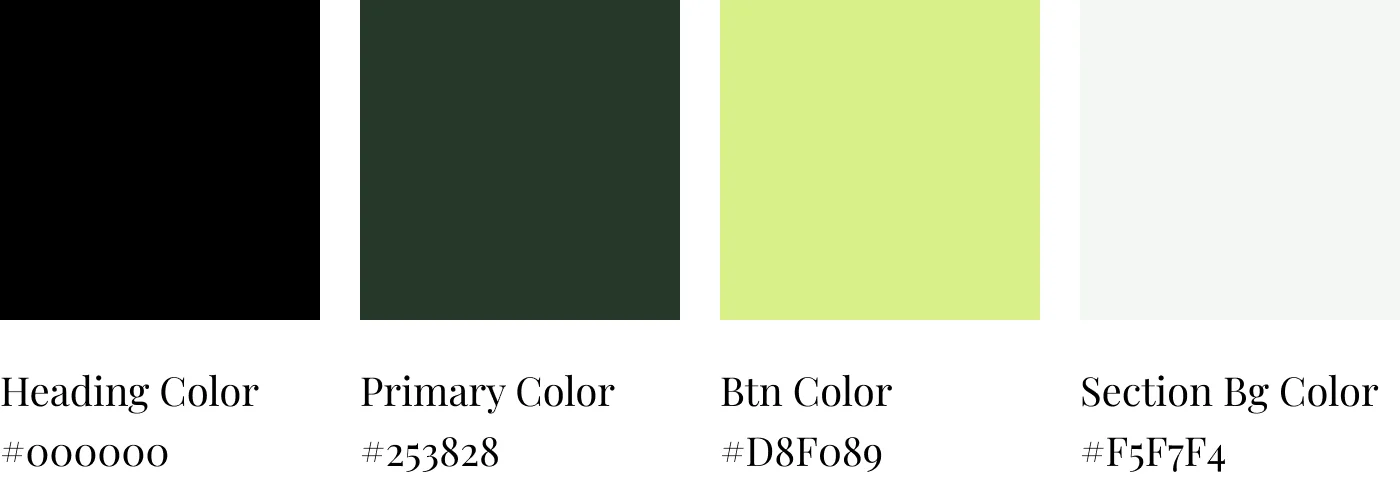
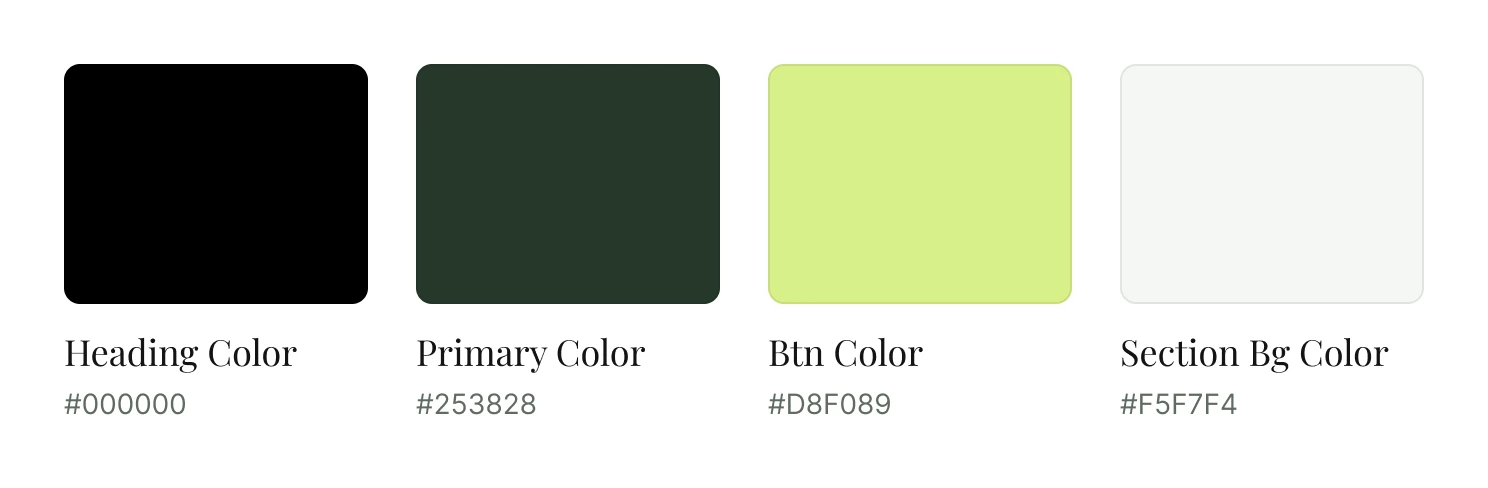
Slide phone screens sideways on narrow screens, and pad Serenity's colour palette
Below the 760px layout a row of phone screens stacked down the page. It now scrolls sideways edge to edge, snaps per phone and shows the next one at the edge. Serenity's palette picture is redrawn with 32px padding, 24px gaps and a hairline round the light swatch (744x244), since Figma's own frame ran flush to the window.

diff --git a/option-a-desktop/style.css b/option-a-desktop/style.css
@@ -1020,7 +1020,12 @@ html.boot-out:not(.boot-in) :is(.desk-icons, #windows, .taskbar) { visibility: h
 @container (max-width: 639px) {
   .cs-row { gap: 12px; }
   .cs-row > .cs-pic { flex: 1 1 100%; }
-  .cs-row.phones > .cs-pic { flex: 0 0 calc(50% - 6px); }
+}
+/* below the wide layout a row of phone screens slides sideways instead of stacking down the page: it runs edge to
+   edge, each phone snaps to the gutter and the next one peeks in. The bottom padding keeps the windows' shadow */
+@container (max-width: 759px) {
+  .cs-row.phones { flex-wrap: nowrap; justify-content: flex-start; gap: 12px; overflow-x: auto; overscroll-behavior-x: contain; scroll-snap-type: x mandatory; scroll-padding-inline: var(--g); margin-inline: calc(-1 * var(--g)); margin-bottom: -24px; padding: 0 var(--g) 24px; scrollbar-width: thin; }
+  .cs-row.phones > .cs-pic { flex: 0 0 min(72%, 240px); max-width: none; scroll-snap-align: start; }
 }
 @container (min-width: 640px) {
   .cs-title { font-size: 32px; }
@@ -1755,9 +1760,11 @@ html.boot-out:not(.boot-in) :is(.desk-icons, #windows, .taskbar) { visibility: h
   background: #f0f4ec;
   border-top: 1px solid #d6dfd2;
 }
-.screen-view[data-case="serenity-spa"] .cs-ch[data-sec="mobile"] .cs-row.phones {
-  justify-content: center;
-  gap: clamp(12px, 3vw, 32px);
+@container (min-width: 760px) {
+  .screen-view[data-case="serenity-spa"] .cs-ch[data-sec="mobile"] .cs-row.phones {
+    justify-content: center;
+    gap: clamp(12px, 3vw, 32px);
+  }
 }
 .screen-view[data-case="serenity-spa"] .cs-ch[data-sec="outcome"] {
   border-top: 8px solid #d8f089;

diff --git a/option-a-desktop/index.html b/option-a-desktop/index.html
@@ -28,7 +28,7 @@
   <link rel="preload" as="font" type="font/woff2" href="../asset/fonts/noto-sans-latin.woff2?v=1" crossorigin>
   <link rel="preload" as="font" type="font/woff2" href="../asset/fonts/noto-sans-mono-latin.woff2?v=1" crossorigin>
   <link rel="stylesheet" href="../asset/fonts/fonts.css?v=1">
-  <link rel="stylesheet" href="style.css?v=157">
+  <link rel="stylesheet" href="style.css?v=158">
   <!-- the loading screen's still, fetched with the stylesheets: the room shows from the first frames -->
   <link rel="preload" as="image" href="../asset/boot/room.webp?v=1" media="(min-width: 721px)" fetchpriority="high">
   <link rel="preload" as="image" href="../asset/boot/room-phone.webp?v=1" media="(max-width: 720px), (max-height: 500px) and (pointer: coarse)" fetchpriority="high">
@@ -141,7 +141,7 @@
   <!-- the loading screen first, so it can count everything after it -->
   <script src="boot.js?v=11"></script>
   <script src="../shared/content.js?v=107"></script>
-  <script src="../shared/cases.js?v=21"></script>
+  <script src="../shared/cases.js?v=22"></script>
   <script src="icons.js?v=57"></script>
   <script src="app.js?v=188"></script>
   <!-- live wallpaper and the episode TV's desk (three.js); the static webp on .desktop and the episode stills stay as

diff --git a/shared/cases.js b/shared/cases.js
@@ -788,7 +788,7 @@
                 en: 'The style guide’s headings in Playfair Display, from Heading 1 at 88px down to Heading 6 at 24px, each with its line height',
                 id: 'Judul-judul di style guide dengan Playfair Display, dari Heading 1 berukuran 88px sampai Heading 6 berukuran 24px, masing-masing dengan tinggi barisnya',
               }),
-              pop: pic('dialog', 'Color palette', '05-color-palette', 700, 240, '18335:889', {
+              pop: pic('dialog', 'Color palette', '05-color-palette', 744, 244, '18335:889', {
                 en: 'The colour palette: Heading Color #000000, Primary Color #253828, Btn Color #D8F089 and Section Bg Color #F5F7F4',
                 id: 'Palet warna: Heading Color #000000, Primary Color #253828, Btn Color #D8F089, dan Section Bg Color #F5F7F4',
               }),
@@ -934,7 +934,7 @@
   };
   const serenity = PF.cases['serenity-spa'];
   const attachSerenityImage = (image) => {
-    if (image) image.src = `../${serenity.dir}/${image.file}.webp?v=2`;
+    if (image) image.src = `../${serenity.dir}/${image.file}.webp?v=3`;
   };
   attachSerenityImage(serenity.hero);
   serenity.chapters.forEach((chapter) => chapter.blocks.forEach((block) => {
